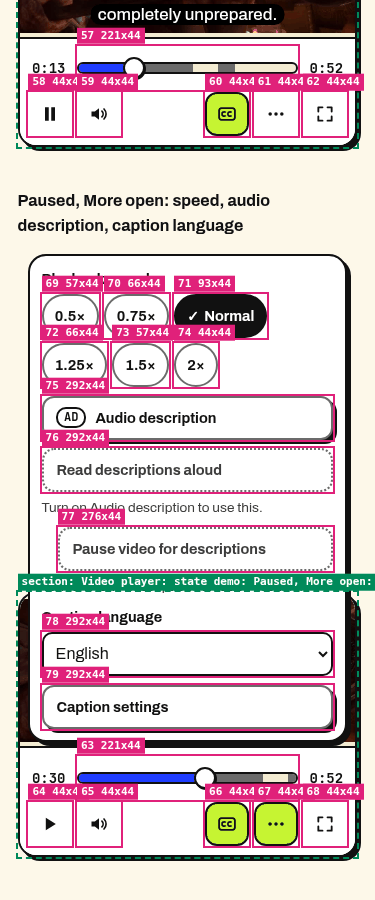
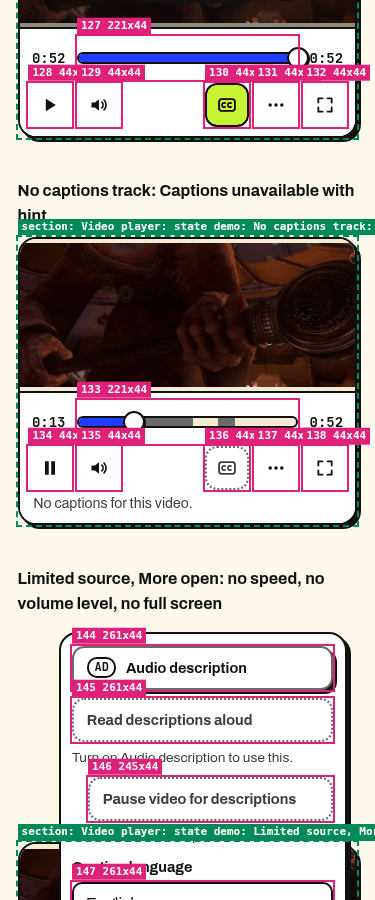
docs(video-player): VQA #42 fixes: visible-only panel focus, 5b buffering KI, C-hint gate, 560 content box, static mode label, pauseWhileReading
Author-bot: UX/UI Designer

diff --git a/docs/components/video-player/index.html b/docs/components/video-player/index.html
@@ -456,7 +456,7 @@ function mount(host,o){const id='vp'+(++n);host.insertAdjacentHTML('beforeend',p
  // popovers (More, Speed). Caption settings is a modal dialog.
  let openPop=null,opener=null;
  function closePop(ret=true){if(!openPop)return;openPop.hidden=true;$$(`[aria-controls=${openPop.id}]`,P).forEach(b=>b.setAttribute('aria-expanded','false'));if(ret&&opener)opener.focus();openPop=null;chrome()}
- function showPop(p,btn){const same=openPop===p;closePop(false);if(same)return;p.hidden=false;openPop=p;opener=btn;if(btn&&btn.hasAttribute('aria-expanded'))btn.setAttribute('aria-expanded','true');const f=$('input:checked,button:not([hidden]),input,select',p);f&&f.focus();chrome()}
+ function showPop(p,btn){const same=openPop===p;closePop(false);if(same)return;p.hidden=false;openPop=p;opener=btn;if(btn&&btn.hasAttribute('aria-expanded'))btn.setAttribute('aria-expanded','true');const vis=e=>e.getClientRects().length>0;const f=$$('input:checked',p).find(vis)||$$('button:not([hidden]),input,select',p).find(vis);f&&f.focus();chrome()}
  const caps=Object.assign({rate:true,rates:SPEEDS,volume:true,fullscreen:true},o.caps||{});
  const setRate=r=>{if(!caps.rates.includes(r))r=1;S.rate=r;if(v)v.playbackRate=r;el('spl').textContent=spLabel(r);$('[data-act=speed]',P).setAttribute('aria-label','Playback speed, '+spLabel(r));$$(`input[name=sp-${id}],input[name=spm-${id}]`,P).forEach(i=>i.checked=+i.value===r)};
  const stepRate=d=>{if(!caps.rate)return;const R=caps.rates,i=R.indexOf(S.rate);const j=Math.min(R.length-1,Math.max(0,i+d));if(j!==i){setRate(R[j]);save();el('status').textContent='Playback speed, '+spLabel(R[j])}};
@@ -511,7 +511,7 @@ function mount(host,o){const id='vp'+(++n);host.insertAdjacentHTML('beforeend',p
  // no caption track of ours: the provider shows captions. Static notes replace Captions and Caption settings; the transcript hides.
  if(caps.providerCaptions){$('[data-act=cc]',P).dataset.cap='off';el('langf').dataset.cap='off';$('[data-act=capset]',P).dataset.cap='off';document.getElementById(id+'-pcc').hidden=false;$('[data-slot=pset]',P).hidden=false;$$('[data-act=tx]',P).forEach(b=>b.dataset.cap='off');const tx=document.getElementById(id+'-tx');if(tx)tx.hidden=true}
  // keyboard hint (player.keys): a sentence drops when its feature is off
- document.getElementById(id+'-hint').textContent=['Keyboard shortcuts: K or Space plays or pauses.','Left and Right arrows skip 5 seconds, and J and L skip 10 seconds.',caps.volume&&'Up and Down arrows change the volume.','Home and End go to the start or the end.','M mutes.','C turns captions on or off.',ad.length&&'D turns audio description on or off.',caps.rate&&caps.rates.length>1&&'The less-than and greater-than keys slow down or speed up.',caps.fullscreen&&'F goes full screen.',o.tx&&!caps.providerCaptions&&'T opens the transcript.','Escape closes a panel.'].filter(Boolean).join(' ');
+ document.getElementById(id+'-hint').textContent=['Keyboard shortcuts: K or Space plays or pauses.','Left and Right arrows skip 5 seconds, and J and L skip 10 seconds.',caps.volume&&'Up and Down arrows change the volume.','Home and End go to the start or the end.','M mutes.',tracks.length&&!caps.providerCaptions&&'C turns captions on or off.',ad.length&&'D turns audio description on or off.',caps.rate&&caps.rates.length>1&&'The less-than and greater-than keys slow down or speed up.',caps.fullscreen&&'F goes full screen.',o.tx&&!caps.providerCaptions&&'T opens the transcript.','Escape closes a panel.'].filter(Boolean).join(' ');
  if(!caps.volume)$('.vol',P).dataset.cap='off';
  if(!caps.fullscreen)$('[data-act=fs]',P).dataset.cap='off';
  if(!caps.rate||caps.rates.length<2){$('[data-act=speed]',P).dataset.cap='off';$('#'+id+'-more [data-speed]').dataset.cap='off'}
@@ -543,7 +543,7 @@ Promise.all([fetch(SRC+'captions.vtt').then(r=>r.text()),fetch('media/captions-f
  const pad=()=>$$('.gal figure').forEach(f=>{const p=$('.pop:not([hidden]),dialog[open]',f),vp=$('.vp',f);if(!p)return;vp.style.marginTop='';const over=vp.getBoundingClientRect().top-p.getBoundingClientRect().top;if(over>0)vp.style.marginTop=(over+8)+'px'});
  pad();new ResizeObserver(pad).observe(G)});
 const R=document.documentElement,mb=$('#mode');
-function syncMode(){const dark=R.dataset.mode?R.dataset.mode==='dark':matchMedia('(prefers-color-scheme: dark)').matches;mb.setAttribute('aria-pressed',dark);mb.textContent=dark?'Light mode':'Dark mode'}
+function syncMode(){const dark=R.dataset.mode?R.dataset.mode==='dark':matchMedia('(prefers-color-scheme: dark)').matches;mb.setAttribute('aria-pressed',dark)}
 mb.onclick=()=>{const dark=mb.getAttribute('aria-pressed')==='true';R.dataset.mode=dark?'light':'dark';try{localStorage.setItem('jdilig:mode',R.dataset.mode)}catch(e){}syncMode()};
 matchMedia('(prefers-color-scheme: dark)').addEventListener('change',syncMode);syncMode();
 </script>

diff --git a/docs/components/video-player/HANDOFF.md b/docs/components/video-player/HANDOFF.md
@@ -4,7 +4,7 @@ Status: **draft for Chief Architect sign-off.** Coders build from this file plus
 
 - Prototype: [`index.html`](index.html) (open through a server that supports HTTP Range requests, e.g. `npx serve` or GitHub Pages; Python's `http.server` can't seek video).
 - Annotated shots: [`handoff/`](handoff/), made by [`annotate.cjs`](annotate.cjs) (neo pattern).
-- Core it is designed against: FSD's [PR #33](https://github.com/balbonits/a11y-design-system/pull/33), `feat/r4-video` at `8f4eb06` (`src/video/player.ts`, `src/video/vtt.ts`, adapters), and its current head `acd2f93` with `docs/components/video-player/CORE-API.md` sections 5a (tracks, descriptions, voicing) and 5b (`waiting`/`resumed`, `bufferedchange`, `getBuffered()` → `{ fraction, ranges }`, `canReportBuffering`, `canReportBufferedRanges`, `providerCaptions`, `VideoAdapterUnavailable`, `descriptions.setTrack`, `readVideoPrefs`/`writeVideoPrefs`). Read with `gh`/`git show` only.
+- Core it is designed against: FSD's [PR #33](https://github.com/balbonits/a11y-design-system/pull/33), `feat/r4-video` at `8f4eb06` (`src/video/player.ts`, `src/video/vtt.ts`, adapters), and its heads `acd2f93` and `f8070f9` (adds `pauseWhileReading` to the prefs) with `docs/components/video-player/CORE-API.md` sections 5a (tracks, descriptions, voicing) and 5b (`waiting`/`resumed`, `bufferedchange`, `getBuffered()` → `{ fraction, ranges }`, `canReportBuffering`, `canReportBufferedRanges`, `providerCaptions`, `VideoAdapterUnavailable`, `descriptions.setTrack`, `readVideoPrefs`/`writeVideoPrefs`, `pauseWhileReading`). Read with `gh`/`git show` only.
 - Copy: `R4-PLAYER-COPY.md` from UI Copywriter (final, approved by Chief of Creatives). Every string in the prototype comes from it; none is left as `[COPY-TBD]`.
 - Identity: neo tokens only (`docs/directions/v3/neo/tokens.css`), locked Addendum 5 and 7 names, no aliases, no new tokens. `--scrim` from `e48047a`. `--target-min` is 44px.
 - Media: the shipped demo (Storybook) reads `stories/media/sintel/` (captions.vtt, ad.vtt, transcript.txt, ATTRIBUTION.md are there). FSD copies `sintel-excerpt.mp4` (52s, 1126×480, under 10 MB per R-4) and this folder's `media/captions-fr.vtt` (the official French Sintel subtitles from `reference/sintel_fr.srt`, re-timed to the excerpt, for the Caption language picker) into it during the player build (CA ruling). `tools/transcribe/samples/sintel/` is only the generator's input; this prototype plays from it because the mp4 isn't in `stories/` yet. Sintel © Blender Foundation, CC BY 3.0.
@@ -27,7 +27,7 @@ The player is a `section` (`aria-label="Video player: <title>"`) holding three p
 
 Decisions (pushback, with reasons):
 1. **The bar docks below the frame at every width, not over the video.** The sample is 2.35:1, so at 320 the picture is about 121px tall; an overlay bar (≥96px with the scrubber) would cover most of it. Docking also means the controls always sit on solid `--surface` (contrast is guaranteed, not "depends on the frame") and captions never collide with controls. The bar overlays only in full screen (H-4, H-7).
-2. **Bar mode is a container query on the player (`container: vp / inline-size`, switch at 560px), not a viewport breakpoint.** The same player can sit in a narrow card on a wide page (see the states gallery, two columns at 1024+, each ~410px, narrow mode). Viewport breakpoints would put wide controls in a 410px box.
+2. **Bar mode is a container query on the player (`container: vp / inline-size`, switch at 560px of the player's content box, so 564px outer with the 2px border on each side), not a viewport breakpoint.** The same player can sit in a narrow card on a wide page (see the states gallery, two columns at 1024+, each ~410px, narrow mode). Viewport breakpoints would put wide controls in a 410px box.
 3. **Transcript goes beside the player from 1024px.** Below 1024, a side panel would squeeze the player under 560px and the controls would drop to narrow mode on a big screen. At 1024 the split is ~620 / ~330, which keeps wide controls and a readable transcript line.
 4. **Audio description line sits under the frame, not over it.** Creatives asked that AD text sit above the captions and never cover them. Docked under the frame it covers neither the picture nor the captions at any width, and at 320 there's no room inside a 121px-tall frame for two text bands. In full screen, where the frame is large, the AD line moves to the **top of the frame**, which puts it above the captions with the frame between them. It always shows the `AD` badge next to the full name "Audio description" (never the badge alone).
 5. **Stage height:** `max(9.5rem, 100cqi × 480 / 1126)`, i.e. the video's ratio but never shorter than 9.5rem so the poster button, status pill and overlays fit at 320. Letterboxing is `--surface-muted`. Use the real video ratio per source (from metadata, or 16:9 for YouTube and Vimeo).
@@ -165,7 +165,7 @@ Shortcuts work **only while focus is inside that player** (never global, WCAG 2.
 - Tab order: big Play (poster only), scrubber, Play, Mute, Volume, Captions, Speed, Transcript, More, Full screen, then any open panel, then the transcript (Download, search, Clear search, Previous match, Next match, rows, Jump to current).
 - Focus ring: neo `--focus-ring-*`. Bar padding is larger than ring offset + width so rings never clip.
 - Panels: one open at a time. Opening a panel moves focus to its first control. The Download disclosure moves focus to its first link and Esc closes it.
-- Keyboard hint ("Keyboard shortcuts: ...", Copy) is visually hidden and is the `aria-describedby` of the big Play button and of Play/Pause, not of the `section`: a description on the region isn't read when focus lands on a child. A sentence drops when its feature is off (volume, descriptions, speed with one rate, full screen, transcript).
+- Keyboard hint ("Keyboard shortcuts: ...", Copy) is visually hidden and is the `aria-describedby` of the big Play button and of Play/Pause, not of the `section`: a description on the region isn't read when focus lands on a child. A sentence drops when its feature is off (volume, captions when there's no caption track or `providerCaptions` is set, descriptions, speed with one rate, full screen, transcript).
 - Captions box is `aria-hidden`; captions in another language get `lang` on the caption box.
 
 ## H-7 Motion
@@ -231,7 +231,7 @@ Caption settings follow the approved copy (viewer overrides) in a native dialog.
 | Background | None, Translucent, Solid (default) (`none`, `half`, `solid`) | band opacity 0 / 70% / 100% of `--caption-bg` |
 | Font | Sans serif (default), Serif, Monospace (`sans`, `serif`, `mono`) | `--font-body` / `Georgia, serif` (no serif token) / `--font-mono` |
 
-**Saved prefs:** one JSON object in `localStorage["ember:video:v1"]` (override with the `storageKey` prop), the same shape as the core's `readVideoPrefs`/`writeVideoPrefs`: `{ volume, muted, rate, captions: lang | 'off' | null, descriptions: 'off' | 'text' | 'voice', pauseWhileReading, captionStyle: { size, color, background, font } }`. A bad field falls back to its default, and a storage error falls back silently. Only the main player saves; demos don't. Reset restores the caption style defaults only.
+**Saved prefs:** one JSON object in `localStorage["ember:video:v1"]` (override with the `storageKey` prop), the same shape as the core's `readVideoPrefs`/`writeVideoPrefs`: `{ volume, muted, rate, captions: lang | 'off' | null, descriptions: 'off' | 'text' | 'voice', pauseWhileReading, captionStyle: { size, color, background, font } }`. `pauseWhileReading` is a boolean, default false; the core drops a non-boolean (FSD `f8070f9`) and feeds it to `createDescriptions({ pauseWhileSpeaking })`. `captionStyle` defaults are `m`, `white`, `solid`, `sans` (`DEFAULT_CAPTION_STYLE`), each field falls back on its own, and a patch changes only the fields it names. A bad field falls back to its default, and a storage error falls back silently. Only the main player saves; demos don't. Reset restores the caption style defaults only.
 
 ## H-9 Annotated screenshots
 
@@ -272,7 +272,7 @@ Track labels in the language picker ("English", "Français") come from the track
 
 ## Known issues
 
-1. ~~Buffering needs a core addition.~~ Resolved in the core (5b, FSD commit `1fa5c04`, pushed with the player PR): `waiting` and `progress` on all four adapters, `getBuffered()` 0..1 and `capabilities.buffered`.
+1. ~~Buffering needs a core addition.~~ Resolved in the core (CORE-API 5b, FSD's PR #33 at `acd2f93`): `waiting`/`resumed` events, a throttled `bufferedchange`, `getBuffered()` → `{ fraction, ranges | null }` (ranges on native and HLS, a fraction only on YouTube and Vimeo), and the `canReportBuffering` and `canReportBufferedRanges` flags (H-4 Buffering).
 2. **YouTube and Vimeo** run in iframes: our captions and transcript still work (they're ours), but the iframe takes focus when clicked, so our shortcuts stop until focus returns; the provider's own UI must be hidden (`controls=0` / Vimeo `controls:false`). Vimeo rate needs a paid owner account (core reports `rate:false`).
 3. **iOS Safari:** volume level is read-only (slider hidden, Mute works); iPhone has no element full screen (button hidden).
 4. Caption background None is a viewer choice and can drop below contrast over bright frames even with the outline. Solid (default) and Translucent pass 4.5:1 over any frame (H-8).
